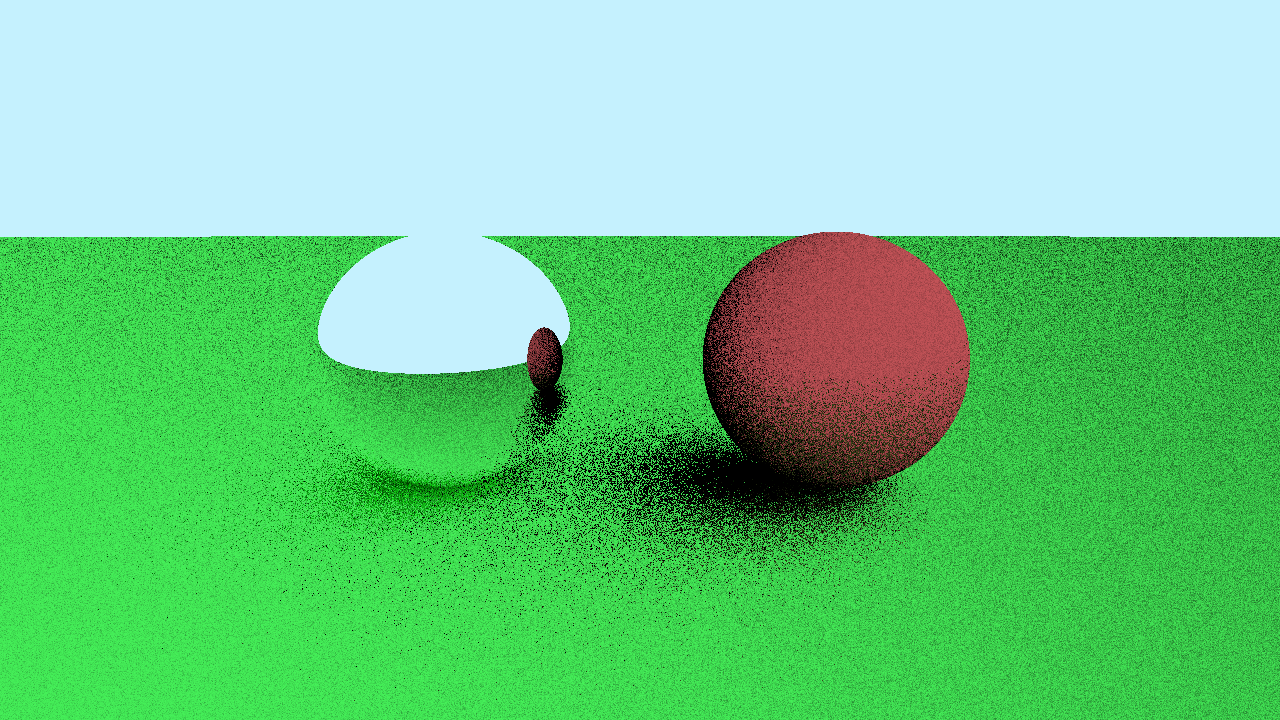
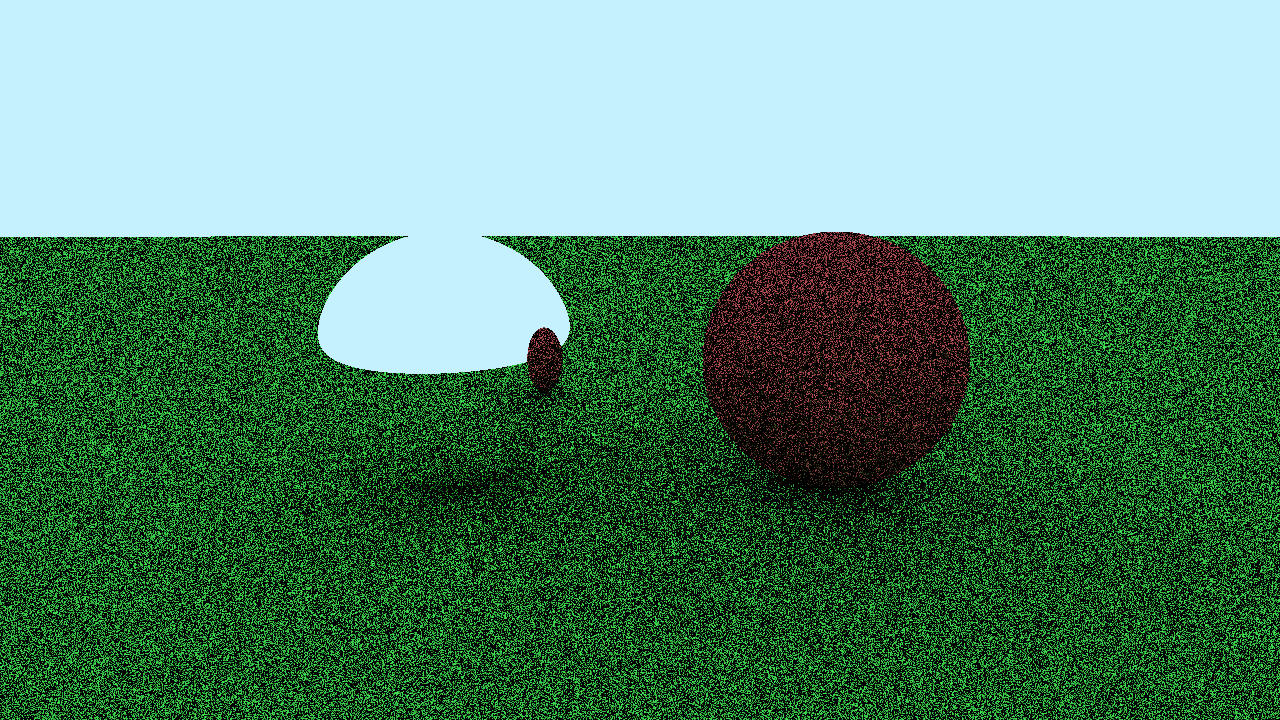
fix sampling for diffuse reflections

diff --git a/src/main.cpp b/src/main.cpp
@@ -108,11 +108,11 @@ Colorf trace_ray(const Ray& ray, int depth)
         {
         case EMaterialType::DIFFUSE:
             {
-                double k = 10;
+                double k = 500;
                 Vec d = reflect(ray.direction, closest_hit.normal);
-                d.x += ((double) std::rand() / RAND_MAX) * k;
-                d.y += ((double) std::rand() / RAND_MAX) * k;
-                d.z += ((double) std::rand() / RAND_MAX) * k;
+                d.x += ((double) std::rand() / RAND_MAX) * k - (k / 2);
+                d.y += ((double) std::rand() / RAND_MAX) * k - (k / 2);
+                d.z += ((double) std::rand() / RAND_MAX) * k - (k / 2);
 
                 Ray refl1;
                 refl1.direction = normalize(d);
